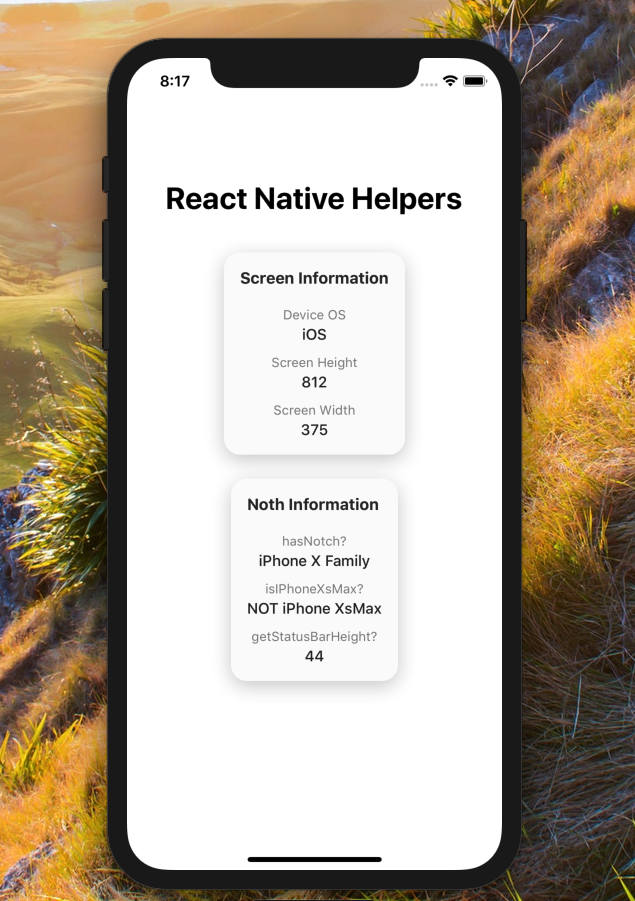
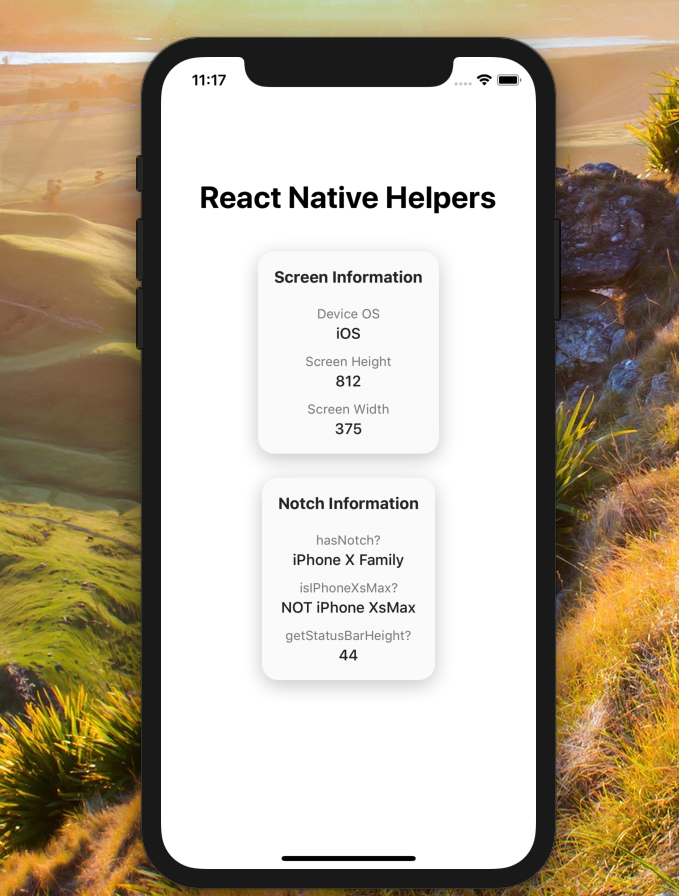
README

diff --git a/example/App.js b/example/App.js
@@ -54,7 +54,7 @@ export default class App extends React.Component {
         <Text style={styles.titleStyle}>React Native Helpers</Text>
         <Card>{this.renderDeviceInfoContainers()}</Card>
         <View style={{ marginTop: 24 }}>
-          <Card headerText="Noth Information">
+          <Card headerText="Notch Information">
             {this.renderNotchContainers()}
           </Card>
         </View>
